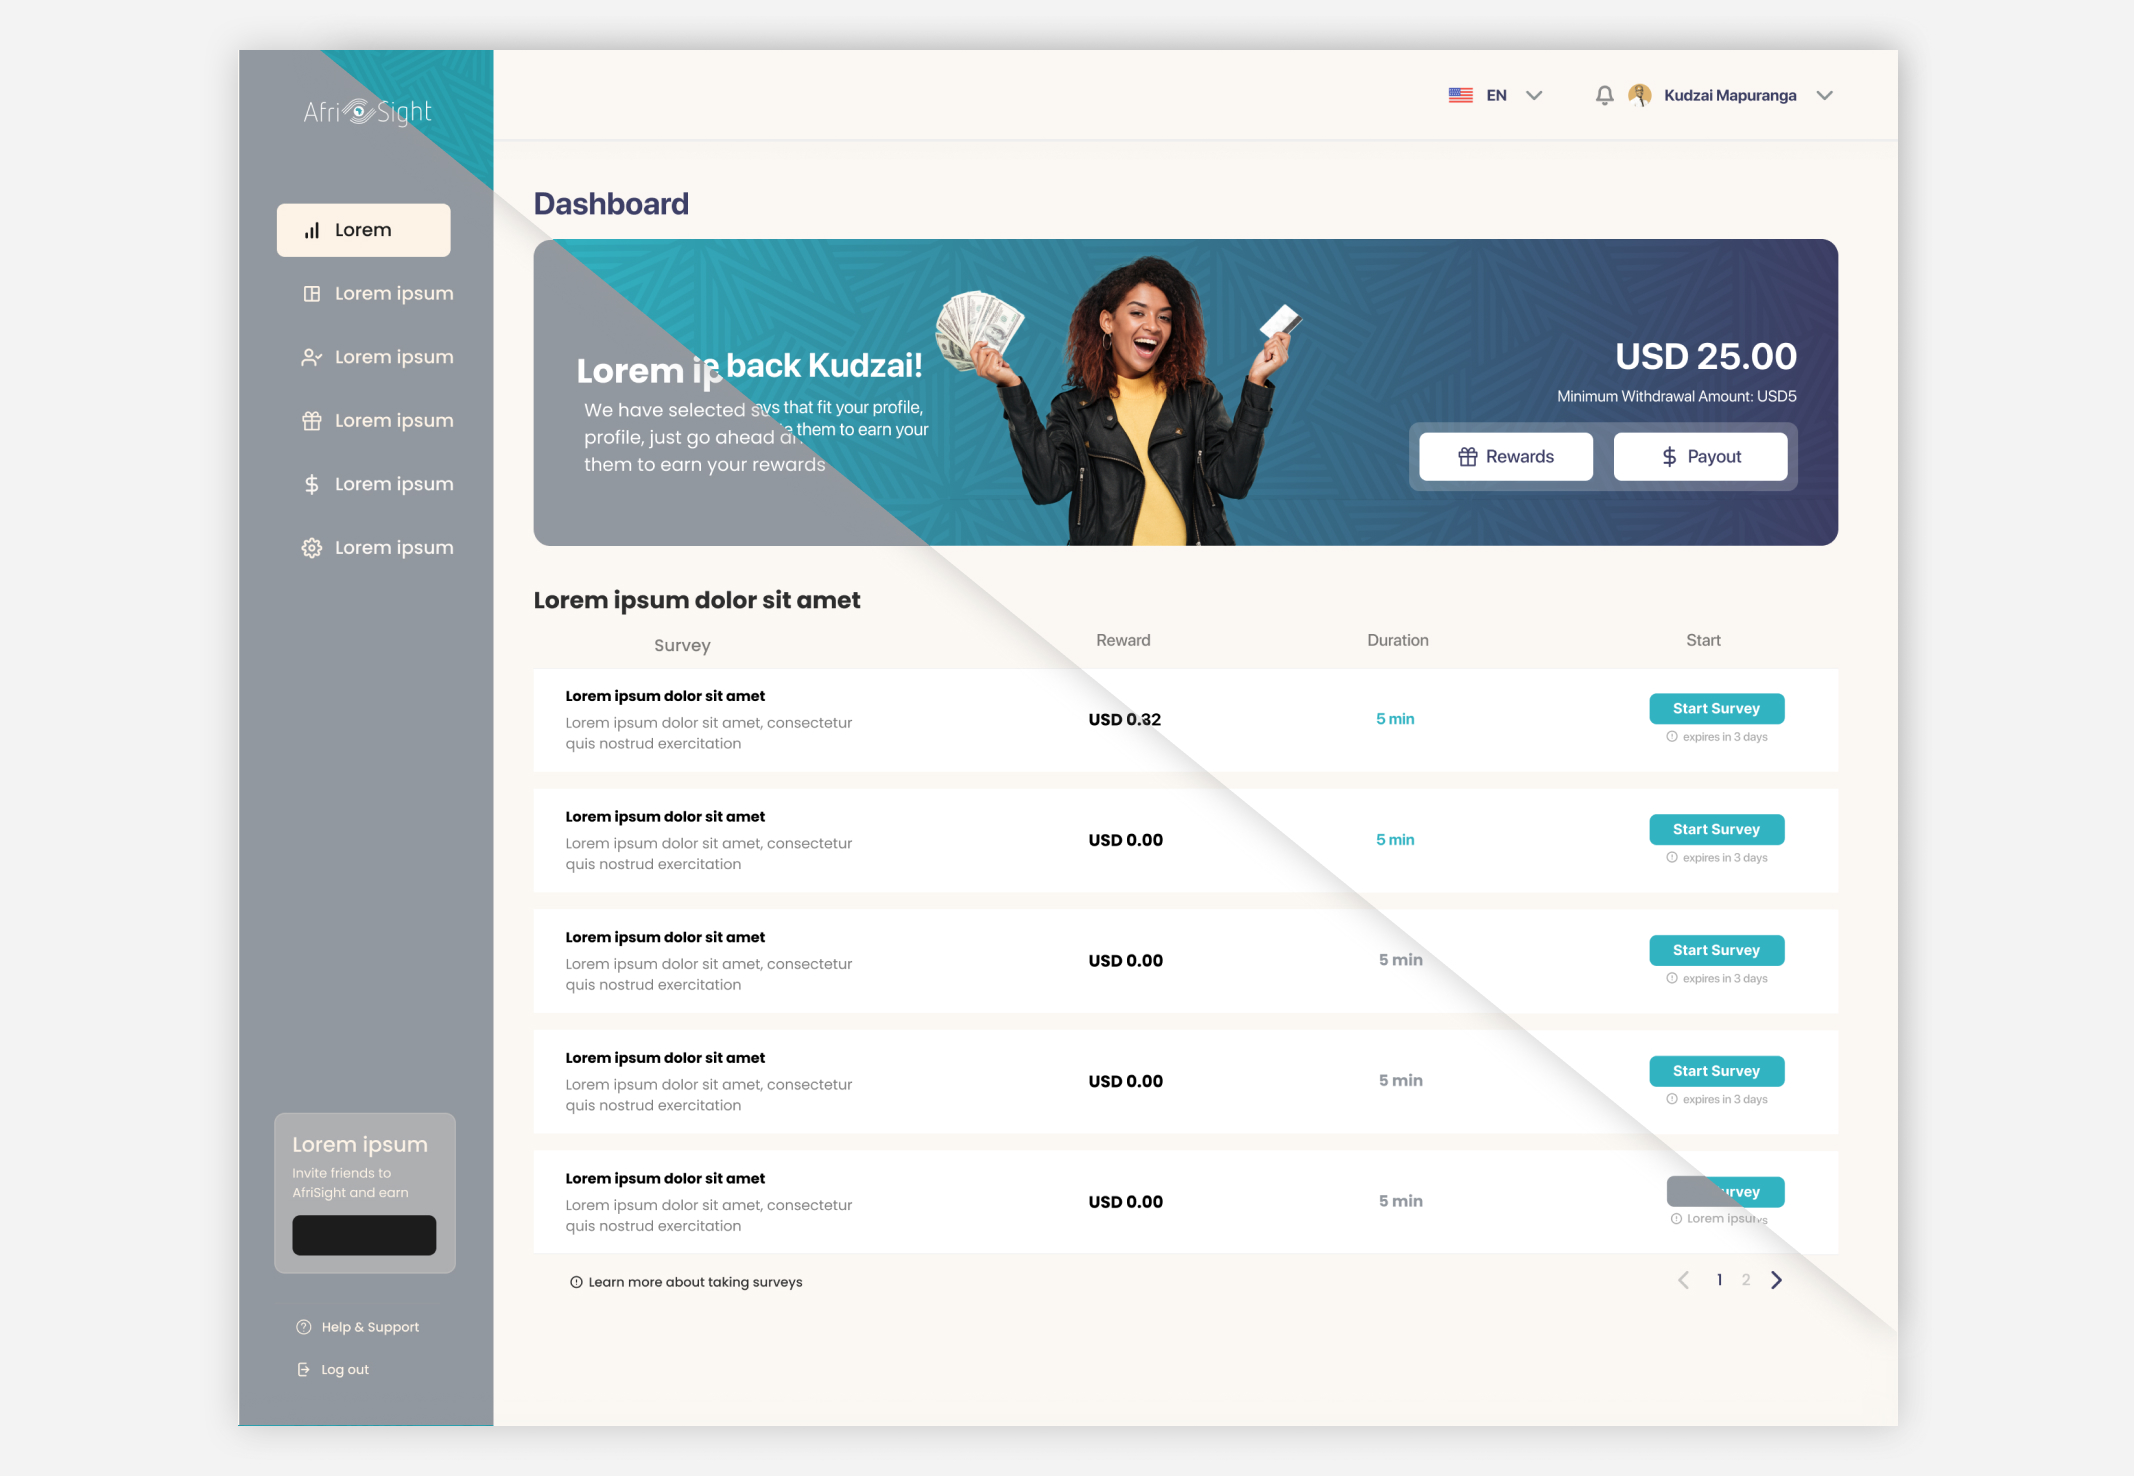
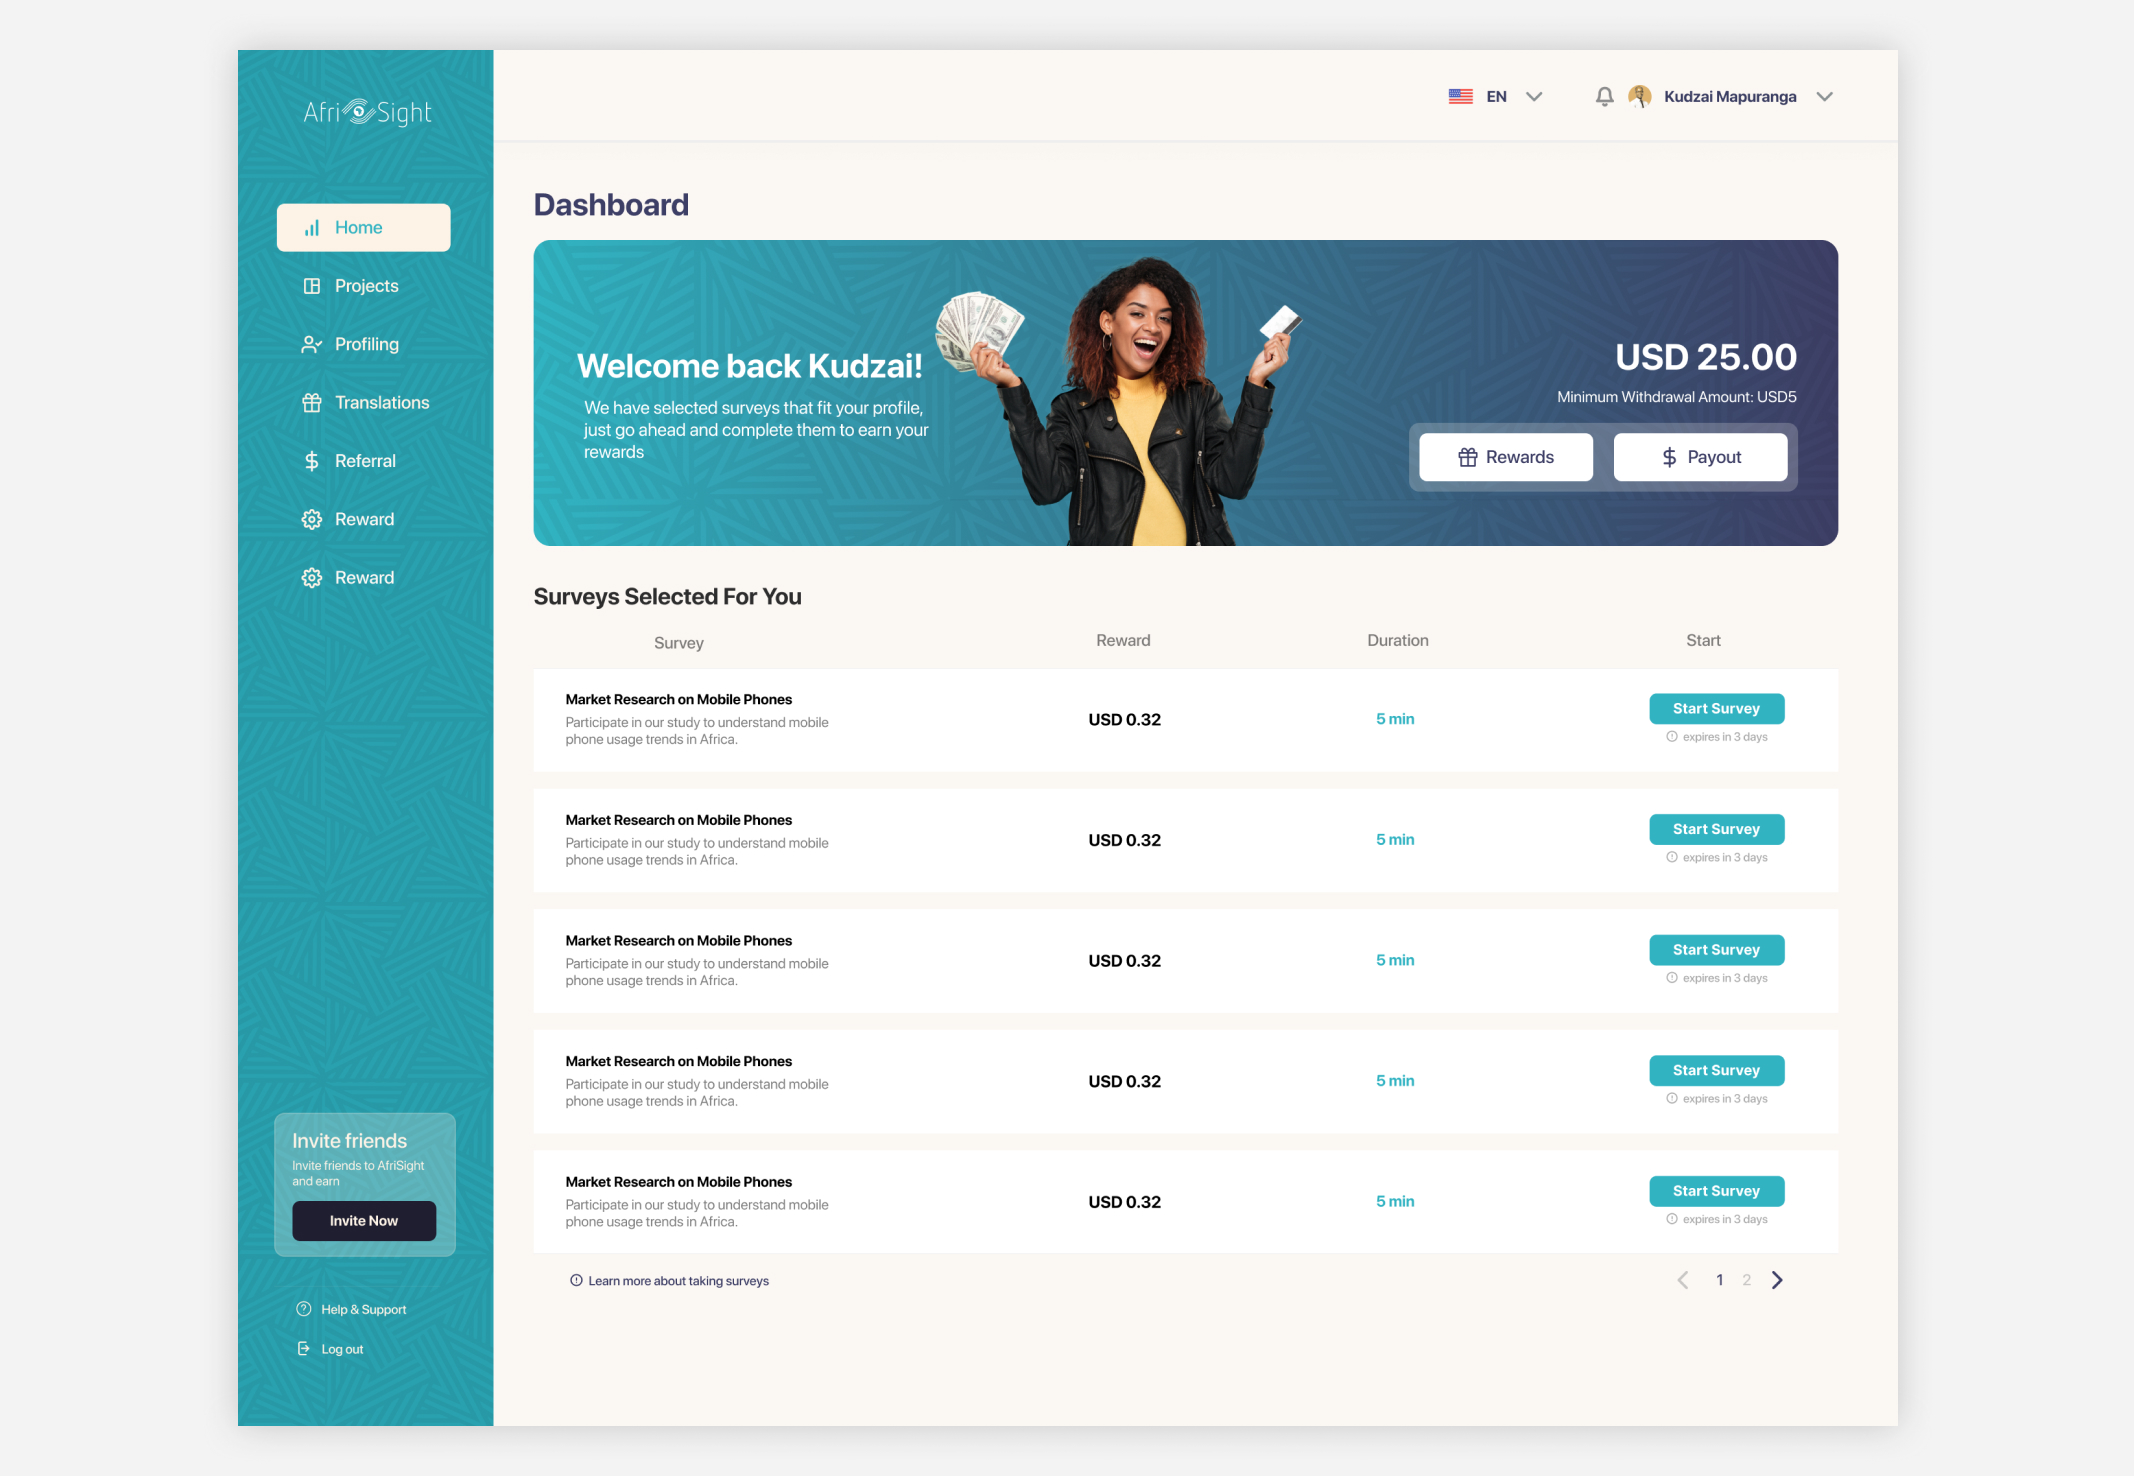
updates  and stats cards added

diff --git a/src/components/Casestudies/Casestudy/Statistics.jsx b/src/components/Casestudies/Casestudy/Statistics.jsx
@@ -1,0 +1,67 @@
+import React from "react";
+import { motion, useInView, useMotionValue, useSpring } from "framer-motion";
+import caseStudies from "../../../data/caseStudies.json";
+
+const useCountUp = (to) => {
+  const count = useMotionValue(0);
+  const spring = useSpring(count, { stiffness: 120, damping: 20 });
+  const ref = React.useRef(null);
+  const inView = useInView(ref, { margin: "-10% 0px -10% 0px", once: true });
+
+  React.useEffect(() => {
+    if (inView) {
+      count.set(to);
+    }
+  }, [inView, to, count]);
+
+  return { ref, value: spring };
+};
+
+const StatCard = ({ value, heading, label, suffix = "", index }) => {
+  const { ref, value: spring } = useCountUp(value);
+  const [display, setDisplay] = React.useState(0);
+
+  React.useEffect(() => {
+    const unsub = spring.on("change", (v) => setDisplay(Math.floor(v)));
+    return () => unsub();
+  }, [spring]);
+
+  const resolvedSuffix = suffix || (label && label.includes("%") ? "%" : "");
+
+  return (
+    <motion.div
+      ref={ref}
+      className="max-w-sm w-full bg-gradient-to-b from-stone-300/40 to-transparent p-[3px] rounded-[12px]"
+      custom={index}
+      initial={{ opacity: 0, y: 40 }}
+      whileInView={{ opacity: 1, y: 0 }}
+      viewport={{ once: true, amount: 0.5 }}
+      transition={{ duration: 0.5, ease: "easeOut" }}
+    >
+      <div className="p-[2px] rounded-[10px] bg-gradient-to-b from-white to-stone-200/30 shadow-[0_1px_2px_rgba(0,0,0,0.4)]">
+        <div className="bg-gradient-to-b from-stone-200/30 to-white/70 p-6 flex flex-col items-center justify-center min-h-[180px]">
+          <div className="text-4xl font-bold text-customPrimary tabular-nums tracking-tight">{display}{resolvedSuffix}</div>
+          {heading && (
+            <div className="mt-1 text-sm font-semibold text-customPrimary text-center">{heading}</div>
+          )}
+          <div className="mt-2 text-sm text-customSecondary text-center max-w-xs">{label}</div>
+        </div>
+      </div>
+    </motion.div>
+  );
+};
+
+const Statistics = ({ caseId = 1 }) => {
+  const current = caseStudies.caseStudies.find((c) => c.id === caseId);
+  const stats = current?.statistics ?? [];
+
+  return (
+    <div className="flex flex-wrap justify-center gap-8 py-10 px-8 md:px-16">
+      {stats.map((s, i) => (
+        <StatCard key={i} value={s.value} heading={s.heading} label={s.label} suffix={s.suffix} index={i} />)
+      )}
+    </div>
+  );
+};
+
+export default Statistics;

diff --git a/src/components/Casestudies/Casestudy2/Statistics.jsx b/src/components/Casestudies/Casestudy2/Statistics.jsx
@@ -1,0 +1,67 @@
+import React from "react";
+import { motion, useInView, useMotionValue, useSpring } from "framer-motion";
+import caseStudies from "../../../data/caseStudies.json";
+
+const useCountUp = (to) => {
+  const count = useMotionValue(0);
+  const spring = useSpring(count, { stiffness: 120, damping: 20 });
+  const ref = React.useRef(null);
+  const inView = useInView(ref, { margin: "-10% 0px -10% 0px", once: true });
+
+  React.useEffect(() => {
+    if (inView) {
+      count.set(to);
+    }
+  }, [inView, to, count]);
+
+  return { ref, value: spring };
+};
+
+const StatCard = ({ value, heading, label, suffix = "", index }) => {
+  const { ref, value: spring } = useCountUp(value);
+  const [display, setDisplay] = React.useState(0);
+
+  React.useEffect(() => {
+    const unsub = spring.on("change", (v) => setDisplay(Math.floor(v)));
+    return () => unsub();
+  }, [spring]);
+
+  const resolvedSuffix = suffix || (label && label.includes("%") ? "%" : "");
+
+  return (
+    <motion.div
+      ref={ref}
+      className="max-w-sm w-full bg-gradient-to-b from-stone-300/40 to-transparent p-[3px] rounded-[12px]"
+      custom={index}
+      initial={{ opacity: 0, y: 40 }}
+      whileInView={{ opacity: 1, y: 0 }}
+      viewport={{ once: true, amount: 0.5 }}
+      transition={{ duration: 0.5, ease: "easeOut" }}
+    >
+      <div className="p-[2px] rounded-[10px] bg-gradient-to-b from-white to-stone-200/30 shadow-[0_1px_2px_rgba(0,0,0,0.4)]">
+        <div className="bg-gradient-to-b from-stone-200/30 to-white/70 p-6 flex flex-col items-center justify-center min-h-[180px]">
+          <div className="text-4xl font-bold text-customPrimary tabular-nums tracking-tight">{display}{resolvedSuffix}</div>
+          {heading && (
+            <div className="mt-1 text-sm font-semibold text-customPrimary text-center">{heading}</div>
+          )}
+          <div className="mt-2 text-sm text-customSecondary text-center max-w-xs">{label}</div>
+        </div>
+      </div>
+    </motion.div>
+  );
+};
+
+const Statistics = ({ caseId = 2 }) => {
+  const current = caseStudies.caseStudies.find((c) => c.id === caseId);
+  const stats = current?.statistics ?? [];
+
+  return (
+    <div className="flex flex-wrap justify-center gap-8 py-10 px-8 md:px-16">
+      {stats.map((s, i) => (
+        <StatCard key={i} value={s.value} heading={s.heading} label={s.label} suffix={s.suffix} index={i} />)
+      )}
+    </div>
+  );
+};
+
+export default Statistics;

diff --git a/src/components/Pages/Casestudy2.jsx b/src/components/Pages/Casestudy2.jsx
@@ -1,6 +1,7 @@
 import React from 'react';
 import BackButton from '../shared/BackButton';
 import Hero from '../Casestudies/Casestudy2/Hero';
+import Statistics from '../Casestudies/Casestudy2/Statistics';
 import Project from '../Casestudies/Casestudy2/Project';
 import Problem from '../Casestudies/Casestudy2/Problem';
 import Solution from '../Casestudies/Casestudy2/Solution';
@@ -11,6 +12,7 @@ const Casestudy2 = () => {
     <div>
       <BackButton />
       <Hero />
+      <Statistics />
       <Project />
       <Problem />
       <Solution />

diff --git a/src/components/Pages/Casestudy.jsx b/src/components/Pages/Casestudy.jsx
@@ -1,6 +1,7 @@
 import React from 'react';
 import BackButton from '../shared/BackButton';
 import Hero from '../Casestudies/Casestudy/Hero';
+import Statistics from '../Casestudies/Casestudy/Statistics';
 import Project from '../Casestudies/Casestudy/Project';
 import Problem from '../Casestudies/Casestudy/Problem';
 import Solution from '../Casestudies/Casestudy/Solution';
@@ -11,6 +12,7 @@ const Casestudy = () => {
     <div>
       <BackButton />
       <Hero />
+      <Statistics />
       <Project />
       <Problem />
       <Solution />
